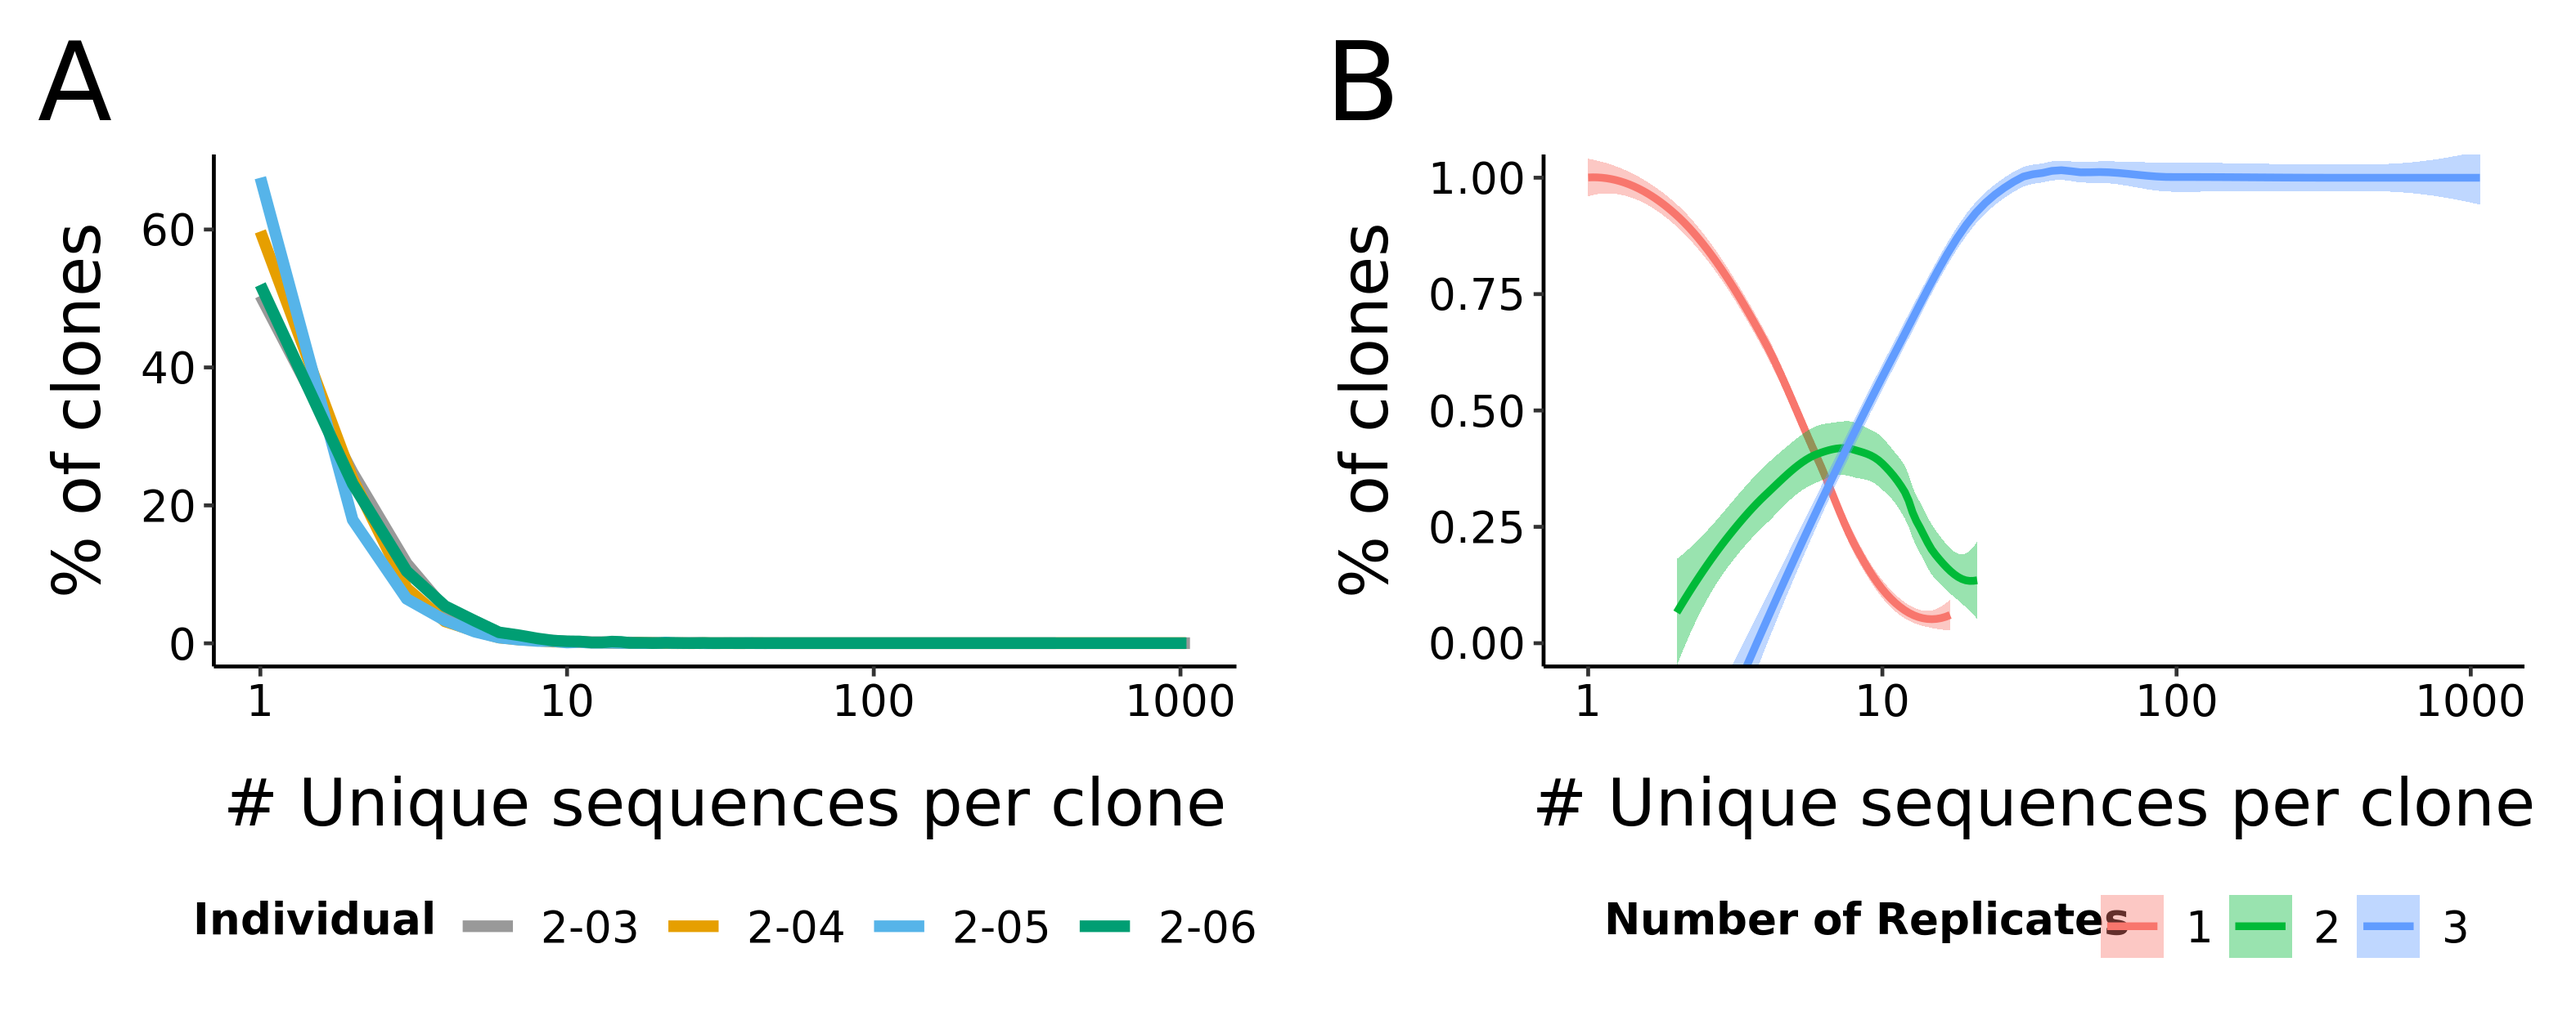
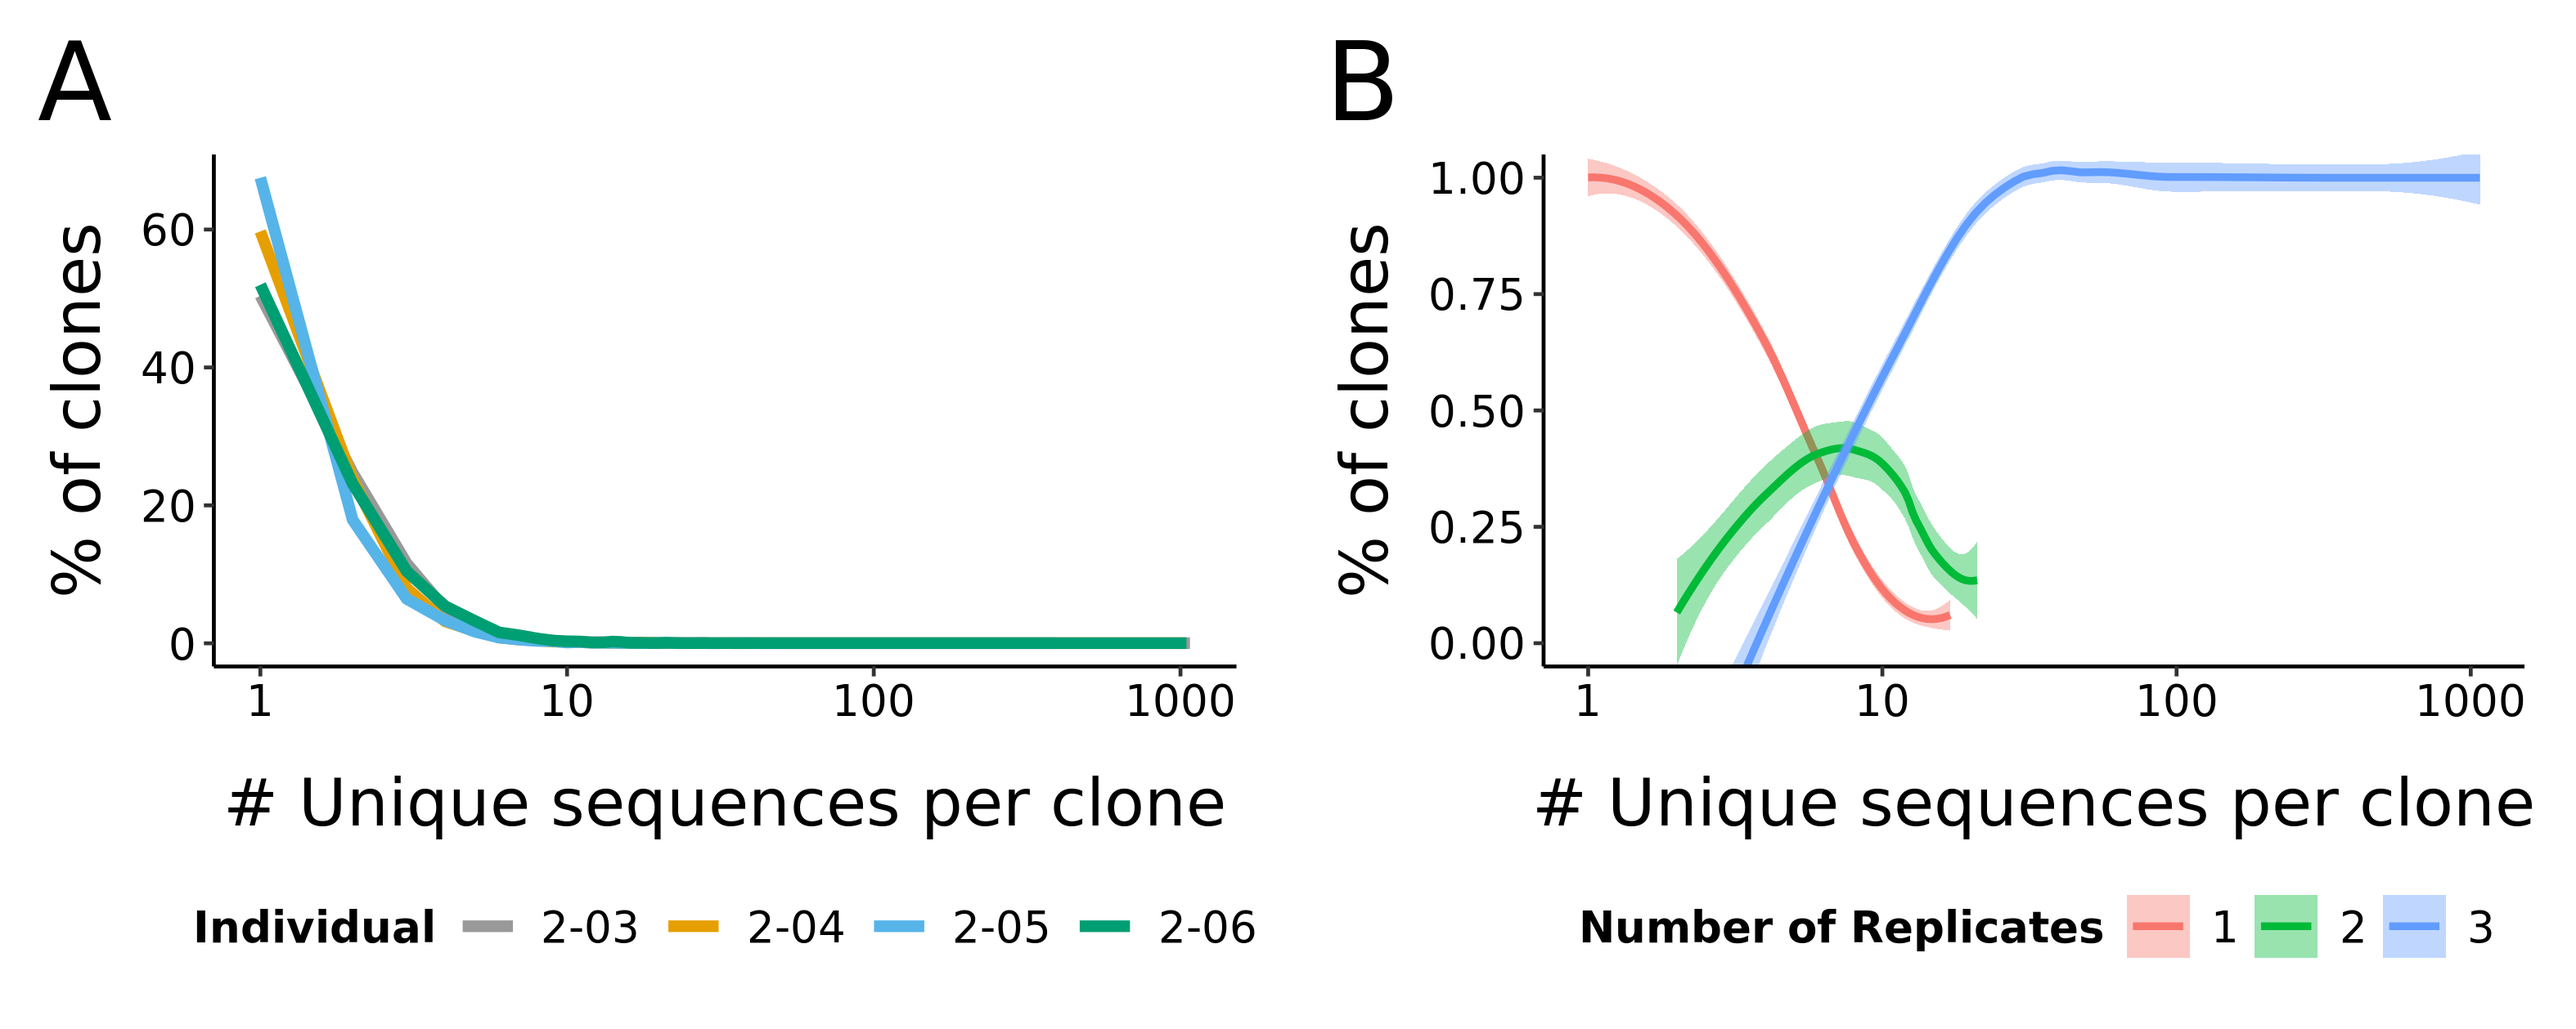
Fixed pilot clone-size plot; various TODO fixes

Changed region(s): [[0.5913, 0.8674, 0.9648, 0.9293], [0.0622, 0.8674, 0.1556, 0.9293]]

diff --git a/B_Chapters/4_IgSeq/Sections/Ageing.tex b/B_Chapters/4_IgSeq/Sections/Ageing.tex
@@ -8,8 +8,7 @@ In order to investigate the effects of ageing on the killifish antibody repertoi
 underwent two independent library preparations as described in \Cref{sec:methods_molec_igseq} and \Cref{sec:igseq_protocol_library}, % TODO: Table of cycle numbers etc.
 for a total of 64 pooled libraries; these were then sequenced together in two MiSeq runs, yielding a total of \embed{_Figures/txt/ageing-reads-raw-total.txt} million read pairs (\embed{_Figures/txt/ageing-reads-raw-replicate-min.txt} to \embed{_Figures/txt/ageing-reads-raw-replicate-max.txt} million pairs per replicate, \embed{_Figures/txt/ageing-reads-raw-individual-min.txt} to \embed{_Figures/txt/ageing-reads-raw-individual-max.txt} million pairs per individual), and the resulting reads underwent pre-processing, filtering and clonotyping as described in \Cref{sec:igseq_protocol_preprocess,sec:igseq_pilot_composition,sec:igseq_pilot_clones}.
 
-\Cref{fig:igseq-ageing-read-survival-all} shows the absolute and relative read survival for each of the sixty-four sequencing libraries throughout this process. As with the pilot dataset, the replicates show relatively consistent behaviour up to and including VDJ assignment and Change-O database construction, with \embed{_Figures/txt/ageing-read-survival-init-min.txt}\,\% to \embed{_Figures/txt/ageing-read-survival-init-max.txt}\,\% of reads surviving up to this stage in the pipeline. However, a somewhat % TODO: much?
- larger number of sequences (\embed{_Figures/txt/ageing-read-survival-rel-loss-total.txt}\,\%, up to \embed{_Figures/txt/ageing-read-survival-rel-loss-max.txt}\,\% per replicate) are lost during V-score filtering compared to the pilot dataset (\embed{_Figures/txt/pilot-read-survival-rel-loss-total.txt}\,\%, up to \embed{_Figures/txt/pilot-read-survival-rel-loss-max.txt}\,\% per replicate). This inconsistency is due to a greater preponderance in the ageing dataset of malformed, J-identity-lacking sequences, which in this case actually make up an absolute majority of unique sequences in the \program{pRESTO}-processed dataset (\Cref{fig:igseq-ageing-functional-prop-pre}). After filtering on V-score, however, the functional composition of the ageing dataset is similar to that of the pilot data (\Cref{fig:igseq-ageing-functional-prop-post,fig:igseq-pilot-functional-prop-b}).
+\Cref{fig:igseq-ageing-read-survival-all} shows the absolute and relative read survival for each of the sixty-four sequencing libraries throughout this process. As with the pilot dataset, the replicates show relatively consistent behaviour up to and including VDJ assignment and Change-O database construction, with \embed{_Figures/txt/ageing-read-survival-init-min.txt}\,\% to \embed{_Figures/txt/ageing-read-survival-init-max.txt}\,\% of reads surviving up to this stage in the pipeline. However, a somewhat larger number of sequences (\embed{_Figures/txt/ageing-read-survival-rel-loss-total.txt}\,\%, up to \embed{_Figures/txt/ageing-read-survival-rel-loss-max.txt}\,\% per replicate) are lost during V-score filtering compared to the pilot dataset (\embed{_Figures/txt/pilot-read-survival-rel-loss-total.txt}\,\%, up to \embed{_Figures/txt/pilot-read-survival-rel-loss-max.txt}\,\% per replicate). This inconsistency is due to a greater preponderance in the ageing dataset of malformed, J-identity-lacking sequences, which in this case actually make up an absolute majority of unique sequences in the \program{pRESTO}-processed dataset (\Cref{fig:igseq-ageing-functional-prop-pre}). After filtering on V-score, however, the functional composition of the ageing dataset is similar to that of the pilot data (\Cref{fig:igseq-ageing-functional-prop-post,fig:igseq-pilot-functional-prop-b}).
 
 \begin{figure}
 \centering
@@ -61,10 +60,10 @@ Following V-score filtering, \embed{_Figures/txt/ageing-nseq-assigned-clones.txt
 \phantomsubcaption{}
 \label{fig:igseq-ageing-clone-sizes-reps}
 \end{subfigure}
-\caption{(A) Proportion of clones of different sizes for each individual in the ageing dataset, measured in unique sequences per clone. (B) Proportion of clones of each size found across one or both replicates of the appropriate individual.}
+\caption{(A) Proportion of clones of different sizes for each individual in the ageing dataset, measured in unique sequences per clone. (B) LOESS-smoothed curves showing proportion of clones of each size found across one or both replicates of the appropriate individual.}
 % TODO: Add suitable overall figure title
 \label{fig:igseq-ageing-clone-sizes}
-\end{figure}
+\end{figure} % TODO: Citation for LOESS smoothing
 
 \begin{figure}
 \centering
@@ -111,9 +110,7 @@ While a significant decline in clonal diversity was age was found at various div
 \label{fig:igseq-ageing-VJ-diversity-solo-fit-gamma}
 \end{figure}
 
-While the alpha-diversity of the VJ-repertoire (reflecting average diversity within each individual repertoire) does not appear to change with age in the turquoise killifish, the beta-diversity (reflecting inter-individual variability in VJ-expression) shows dramatic differences between age groups, especially at higher diversity orders (\Cref{fig:igseq-ageing-VJ-diversity-beta}): while the diversity of the 5.5- and 8-week-old groups is close to the theoretical minimum for that sample size, the 10.5-week-old group exhibits a substantial increase in inter-individual variability across a wide range of diversity orders, and the 18-week old group shows an even more dramatic increase. This increase in inter-individual diversity with age is corroborated by inter-individual RDI distances computed on VJ-repertoires within each age group: both the overall distribution of inter-individual distances (\Cref{fig:igseq-ageing-rdi-VJ-individual-groupdist-all}), and the distribution of nearest-neighbour distances within each age group (\Cref{fig:igseq-ageing-rdi-VJ-individual-groupdist-nn}), increase significantly with age. This tendency for individuals from increasing age groups to become more distinct in their VJ-repertoires can also be observed using principal co-ordinate analysis:  in \Cref{fig:igseq-ageing-rdi-VJ-individual-pcoa-facet}, the great majority of individuals from younger age groups are visibly more tightly clustered than those from older age groups, which drift apart progressively as age-at-death increases. As in ageing humans (\Cref{sec:intro_immunosenescence}), therefore, the ageing killifish appears to become more individualised and distinct in its antibody repertoire, presumably as the result of ... %TODO: finish this, or move to new paragraph
-
-% TODO: Final explanatory sentence
+While the alpha-diversity of the VJ-repertoire (reflecting average diversity within each individual repertoire) does not appear to change with age in the turquoise killifish, the beta-diversity (reflecting inter-individual variability in VJ-expression) shows dramatic differences between age groups, especially at higher diversity orders (\Cref{fig:igseq-ageing-VJ-diversity-beta}): while the diversity of the 5.5- and 8-week-old groups is close to the theoretical minimum for that sample size, the 10.5-week-old group exhibits a substantial increase in inter-individual variability across a wide range of diversity orders, and the 18-week old group shows an even more dramatic increase. This increase in inter-individual diversity with age is corroborated by inter-individual RDI distances computed on VJ-repertoires within each age group: both the overall distribution of inter-individual distances (\Cref{fig:igseq-ageing-rdi-VJ-individual-groupdist-all}), and the distribution of nearest-neighbour distances within each age group (\Cref{fig:igseq-ageing-rdi-VJ-individual-groupdist-nn}), increase significantly with age. This tendency for individuals from increasing age groups to become more distinct in their VJ-repertoires can also be observed using principal co-ordinate analysis:  in \Cref{fig:igseq-ageing-rdi-VJ-individual-pcoa-facet}, the great majority of individuals from younger age groups are visibly more tightly clustered than those from older age groups, which drift apart progressively as age-at-death increases. As in ageing humans (\Cref{sec:intro_immunosenescence}), therefore, the ageing killifish appears to become more individualised and distinct in its antibody repertoire, presumably as the result of an accumulating history of unique individual responses to antigen exposure.
 
 \begin{figure}
 \centering

diff --git a/B_Chapters/4_IgSeq/Sections/Pilot.tex b/B_Chapters/4_IgSeq/Sections/Pilot.tex
@@ -1,7 +1,7 @@
 \section{Establishing \igseq in turquoise killifish: pilot study}
 \label{sec:igseq_pilot}
 
-In order to refine and functionally validate the library-preparation protocol and processing pipeline described in \Cref{sec:igseq_protocol}, as well as assess the state of the turquoise-killifish antibody repertoire in mature adults, a group of four eight-week old adult male killifish from the second sample group described in \Cref{sec:igseq_samples} (specifically, fish 2-03, 2-04, 2-05 and 2-06 from \Cref{tab:igseq-cohorts-fish}) were selected for a pilot study. In this experiment, total RNA was isolated twice independently from each fish, and independent library preps were performed once on the first RNA isolate and twice on the second, for a total of three replicates per individual (\Cref{fig:igseq-pilot-design}). These twelve replicates were sequenced together in a single MiSeq run, yielding a total of \embed{_Figures/txt/pilot-reads-raw-total.txt} million read pairs (\embed{_Figures/txt/pilot-reads-raw-replicate-min.txt} to \embed{_Figures/txt/pilot-reads-raw-replicate-max.txt} million pairs per replicate, \embed{_Figures/txt/pilot-reads-raw-individual-min.txt} to \embed{_Figures/txt/pilot-reads-raw-individual-max.txt} million pairs per individual). These data were then used to develop the downstream analysis pipeline for killifish immunoglobulin-sequencing data, validate the performance and replicability of the protocol, and investigate the state of the antibody repertoire in mature adult killifish. % TODO: Cite appropriate subsections?
+In order to refine and functionally validate the library-preparation protocol and processing pipeline described in \Cref{sec:igseq_protocol}, as well as assess the state of the turquoise-killifish antibody repertoire in mature adults, a group of four eight-week old adult male killifish from the second sample group described in \Cref{sec:igseq_samples} (specifically, fish 2-03, 2-04, 2-05 and 2-06 from \Cref{tab:igseq-cohorts-fish}) were selected for a pilot study. In this experiment, total RNA was isolated twice independently from each fish, and independent library preps were performed once on the first RNA isolate and twice on the second, for a total of three replicates per individual (\Cref{fig:igseq-pilot-design}). These twelve replicates were sequenced together in a single MiSeq run, yielding a total of \embed{_Figures/txt/pilot-reads-raw-total.txt} million read pairs (\embed{_Figures/txt/pilot-reads-raw-replicate-min.txt} to \embed{_Figures/txt/pilot-reads-raw-replicate-max.txt} million pairs per replicate, \embed{_Figures/txt/pilot-reads-raw-individual-min.txt} to \embed{_Figures/txt/pilot-reads-raw-individual-max.txt} million pairs per individual). These data were then used to develop the downstream analysis pipeline for killifish immunoglobulin-sequencing data, validate the performance and replicability of the protocol, and investigate the state of the antibody repertoire in mature adult killifish.
 
 \begin{figure}
 \centering
@@ -100,10 +100,10 @@ In total, \embed{_Figures/txt/pilot-nclones-individual-min.txt} to \embed{_Figur
 \phantomsubcaption{}
 \label{fig:igseq-pilot-clone-sizes-reps}
 \end{subfigure}
-\caption{(A) Proportion of clones of different sizes for each individual in the pilot dataset, measured in unique sequences per clone. (B) Proportion of clones of each size found across one, two or all three replicates of the appropriate individual.}
+\caption{(A) Proportion of clones of different sizes for each individual in the pilot dataset, measured in unique sequences per clone. (B) LOESS-smoothed curves showing proportion of clones of each size found across one, two or all three replicates of the appropriate individual.}
 % TODO: Add suitable overall figure title
 \label{fig:igseq-pilot-clone-sizes}
-\end{figure} % TODO: Correct subplot B legend spacing; describe smoothing plot better
+\end{figure} % TODO: cite LOESS smoothing
 
 \begin{figure}
 \centering

diff --git a/B_Chapters/4_IgSeq/Sections/Gut.tex b/B_Chapters/4_IgSeq/Sections/Gut.tex
@@ -7,7 +7,7 @@ The results from \Cref{sec:igseq_ageing} demonstrate that the whole-body antibod
 alpha-diversity with age, while increasing in VJ beta-diversity. % TODO: ... other summarised results go here
 These results suggest that ... . % TODO: Finish summary
 
-However, while these results demonstrate significant age-related changes in repertoire composition at the level of the entire body, they give no specific information about the ageing process exhibited by the specialised repertoires of particular immune organs, which could differ substantially as a result of their distict antigenic environments and B-cell-subpopulation composition \parencite{sec:intro_immunosenescence}. In particular, the gut mucosal repertoire, which polices the interface between the host organism and the gut microbiota, represents a highly important B-cell subpopulation with an intense and distinctive exprience of antigenic exposure. % TODO: Citation needed
+However, while these results demonstrate significant age-related changes in repertoire composition at the level of the entire body, they give no specific information about the ageing process exhibited by the specialised repertoires of particular immune organs, which could differ substantially as a result of their distict antigenic environments and B-cell-subpopulation composition (\Cref{sec:intro_immunosenescence}). In particular, the gut mucosal repertoire, which polices the interface between the host organism and the gut microbiota, represents a highly important B-cell subpopulation with an intense and distinctive exprience of antigenic exposure. % TODO: Citation needed
 It would therefore be interesting to learn whether the pattern of repertoire ageing observed in the gut accords with that seen in the wider body, or exhibits its own distinct ageing phenotypes.
 
 Smith \textit{et al.} \parencite{smith2017microbiota} demonstrated that gut microbiota transfer from young to middle-aged turquoise killifish significantly extends lifespan in this species, as well as significantly altering microbiota composition and gene expression in the gut. As part of these experiments, gut total RNA was collected from a number of male turquoise killifish of the GRZ-Bellemans substrain (a closely-related substrain to the GRZ-AD substrain used in \Cref{sec:igseq_ageing}) at different ages and following different experimental interventions (\Cref{fig:igseq-gut-design,tab:gut-cohorts-summary,tab:gut-cohorts-fish}). By using these RNA samples to perform a further round of \Igseq in the turquoise killifish, I hoped to investigate the effects of both age and microbiota transfer on the diversity of the gut mucosal repertoire; in particular, given the observed lifespan effect of gut-microbiota transfer and the intimate relationship between the gut microbiota and the mucosal adaptive immune system, % TODO: Citation needed

diff --git a/thesis.tex b/thesis.tex
@@ -32,7 +32,7 @@
 	%\includeonly{B_Chapters/1_Introduction/Introduction}
 	%\includeonly{B_Chapters/2_Methods/Methods,C_Appendices/Solutions,C_Appendices/Primers,C_Appendices/Diversity,C_Appendices/Tables}
 	%\includeonly{B_Chapters/3_Locus/Locus,C_Appendices/Figures,C_Appendices/Tables}
-	\includeonly{B_Chapters/4_IgSeq/IgSeq,C_Appendices/Figures,C_Appendices/Tables}
+	\includeonly{B_Chapters/4_IgSeq/IgSeq}%,C_Appendices/Figures,C_Appendices/Tables}
 \fi
 
 \begin{document}
